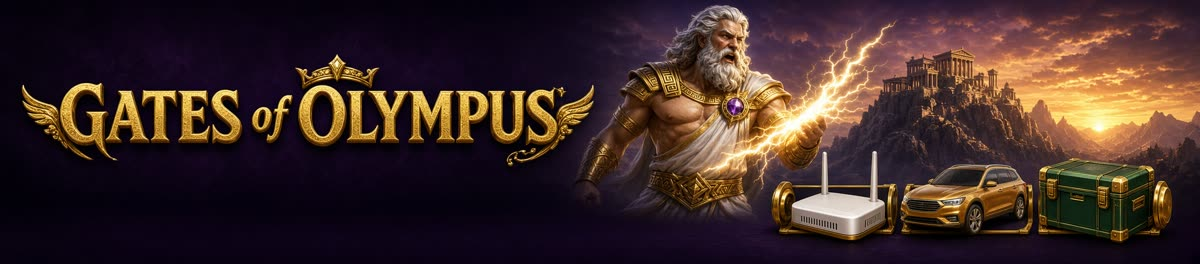
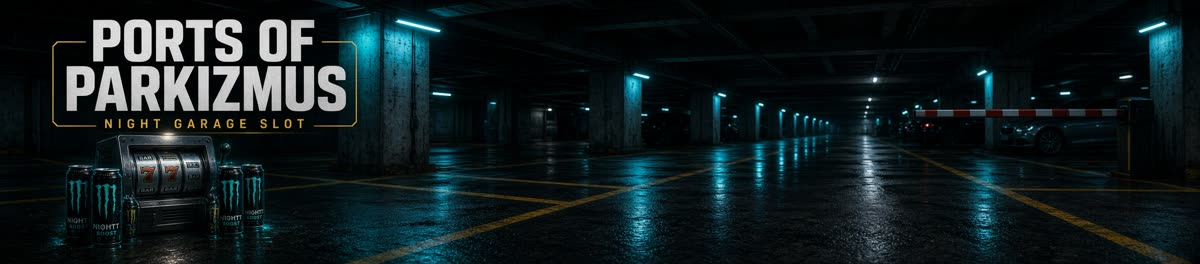
Rename to Ports of Parkizmus and swap orbs for energy cans
Multiplier cells use a photoreal slim energy-drink can instead of
winged orbs. The reel ticker sits in-flow under the compact logo so
it is no longer clipped on desktop.

diff --git a/src/styles.css b/src/styles.css
@@ -180,7 +180,8 @@
 }
 
 .logo-plate.compact .logo-main {
-  font-size: clamp(1rem, 2vw, 1.45rem);
+  font-size: clamp(1.05rem, 2.6vw, 1.7rem);
+  letter-spacing: 0.05em;
 }
 
 .logo-plate.compact .logo-kicker {
@@ -188,8 +189,7 @@
 }
 
 .logo-plate.compact .logo-sub {
-  font-size: 0.52rem;
-  margin-top: 2px;
+  display: none;
 }
 
 .stage.is-boot .table {
@@ -248,7 +248,7 @@
   display: flex;
   flex-direction: column;
   gap: 10px;
-  padding-top: 36px;
+  padding-top: 8px;
   z-index: 2;
 }
 
@@ -392,7 +392,7 @@
   z-index: 3;
   align-self: stretch;
   width: 100%;
-  margin-top: 22px;
+  margin-top: 4px;
   min-height: 0;
   display: flex;
   flex-direction: column;
@@ -410,20 +410,34 @@
 
 .board-stage-inner {
   position: relative;
-  width: min(100%, calc((100dvh - 13.25rem) * 6 / 5));
+  width: min(100%, calc((100dvh - 13.85rem) * 6 / 5));
 }
 
 .fly-orb {
   position: absolute;
   z-index: 8;
   transform: translate(-50%, -50%);
+  width: 3.5rem;
+  height: 3.5rem;
+  display: grid;
+  place-items: center;
   font-family: var(--font-display);
   font-weight: 900;
-  font-size: clamp(0.9rem, 2.4vw, 1.35rem);
+  font-size: clamp(0.78rem, 2.1vw, 1.15rem);
   color: #fff8d0;
   text-shadow: 0 0 12px #ffe14a, 0 2px 0 #3a2208;
   pointer-events: none;
   animation: fly-to-meter 0.72s cubic-bezier(0.18, 0.8, 0.22, 1) forwards;
+}
+
+.fly-orb img {
+  position: absolute;
+  inset: 0;
+  width: 100%;
+  height: 100%;
+  object-fit: contain;
+  pointer-events: none;
+  filter: drop-shadow(0 4px 6px rgb(0 0 0 / 0.55));
 }
 
 @keyframes fly-to-meter {
@@ -469,19 +483,21 @@
 
 .tumble-win,
 .top-ticker {
-  position: absolute;
-  top: -40px;
-  left: 50%;
-  transform: translateX(-50%);
+  position: relative;
   z-index: 4;
-  min-width: 240px;
+  flex-shrink: 0;
+  width: min(100%, 440px);
+  margin: 0 auto 6px;
   text-align: center;
-  padding: 6px 22px 8px;
+  padding: 6px 16px 7px;
+  min-height: 2.2rem;
+  display: grid;
+  place-items: center;
   background: linear-gradient(180deg, #1c2830, #0c1014);
   border: 2px solid #f0c419;
   border-radius: 10px;
   font-size: 0.68rem;
-  letter-spacing: 0.16em;
+  letter-spacing: 0.12em;
   font-weight: 800;
   color: #f0c419;
   pointer-events: none;
@@ -510,7 +526,7 @@
   position: relative;
   padding: 12px 11px 14px;
   width: 100%;
-  max-height: calc(100dvh - 12.5rem);
+  max-height: calc(100dvh - 13.1rem);
   background:
     linear-gradient(180deg, #3a424a 0%, #1c2228 40%, #0e1216 72%, #2a3138 100%);
   box-shadow:
@@ -651,7 +667,7 @@
 }
 
 .cell.is-mult .cell-img {
-  width: 92%;
+  width: 78%;
   height: 92%;
 }
 
@@ -847,6 +863,10 @@
 
 .in-fs .fs-hero {
   order: -1;
+}
+
+.cell.is-dormant .cell-img {
+  filter: brightness(0.86) saturate(0.88) drop-shadow(0 8px 10px rgb(0 0 0 / 0.55));
 }
 
 .cell.is-dormant .mult-tag {
@@ -1084,7 +1104,7 @@
 .mult-tag {
   position: absolute;
   left: 50%;
-  top: 50%;
+  top: 46%;
   z-index: 2;
   transform: translate(-50%, -50%);
   font-family: var(--font-display);
@@ -1506,7 +1526,8 @@
 }
 
 .boot-card .logo-main {
-  font-size: clamp(2.4rem, 8vw, 4rem);
+  font-size: clamp(2.05rem, 7vw, 3.35rem);
+  letter-spacing: 0.05em;
 }
 
 .boot-card .logo-kicker {
@@ -1736,7 +1757,7 @@
     height: 36px;
   }
   .side-left {
-    padding-top: 24px;
+    padding-top: 8px;
   }
 }
 
@@ -1839,11 +1860,13 @@
     justify-content: center;
   }
   .top-ticker {
-    top: -28px;
     font-size: 0.58rem;
     padding: 4px 12px 5px;
     min-width: 0;
-    max-width: 92%;
+    max-width: 96%;
+    min-height: 1.85rem;
+    letter-spacing: 0.08em;
+    margin-bottom: 4px;
   }
   .board-stage {
     flex: 0 1 auto;

diff --git a/src/components/slot/Paytable.tsx b/src/components/slot/Paytable.tsx
@@ -51,6 +51,16 @@ export function Paytable({ open, onClose, bet }: Props) {
             </div>
           ))}
           <div className="pay-row">
+            <img src="/symbols/can.png" alt="" className="pay-ico" />
+            <div>
+              <div className="pay-name">Energy plechovka · násobič</div>
+              <div className="pay-vals">
+                <span>2×–500×</span>
+              </div>
+              <div className="pay-quip">Rampa ju hodí. Bez výhry prepadne.</div>
+            </div>
+          </div>
+          <div className="pay-row">
             <img src={SCATTER.src} alt="" className="pay-ico" />
             <div>
               <div className="pay-name">{SCATTER.name} · scatter</div>
@@ -65,9 +75,9 @@ export function Paytable({ open, onClose, bet }: Props) {
         </div>
         <ul className="rules">
           <li>8 a viac rovnakých symbolov kdekoľvek. Žiadne línie. 7/8 je near-miss, nie výhra.</li>
-          <li>Výherné symboly zmiznú, nové spadnú zhora (tumble). Orby a scatter tumble prežijú.</li>
-          <li>Násobiče nepadajú z valca ako RJ45. Rampa ich pustí. Aktivujú sa až na konci reťaze, a len ak bola výhra.</li>
-          <li>Base: súčet orbov × celá tumble sekvencia. Vo FS orby tečú do globálneho metra; bez výhry gule prepadnú.</li>
+          <li>Výherné symboly zmiznú, nové spadnú zhora (tumble). Plechovky a scatter tumble prežijú.</li>
+          <li>Násobiče nepadajú z valca ako RJ45. Rampa ich pustí ako energy plechovky. Aktivujú sa až na konci reťaze, a len ak bola výhra.</li>
+          <li>Base: súčet plechoviek × celá tumble sekvencia. Vo FS tečú do globálneho metra; bez výhry prepadnú.</li>
           <li>4 scatteri = 15 voľných točení. V bonuse 3+ scatteri = +5. Pay scatteru ostáva 4 / 5 / 6.</li>
           <li>Ante 1.25× stávka dvíha P(bonus) približne na dvojnásobok cez binom, nie surový ×2 na bunke. Vo FS sa ante vypína.</li>
           <li>Kúpa FS = 100× základná stávka. Ante sa na kúpu nevzťahuje. Max 5000× je cap celej feature, nie jedného spinu — potom FEATURE TERMINATED.</li>

diff --git a/src/components/slot/SlotGame.tsx b/src/components/slot/SlotGame.tsx
@@ -42,8 +42,8 @@ export function SlotGame() {
           <img src="/art/ramp.png" alt="" className="boot-ramp" />
           <div className="boot-card">
             <div className="logo-plate">
-              <span className="logo-kicker">GATES of</span>
-              <span className="logo-main">OLYMPUS</span>
+              <span className="logo-kicker">PORTS of</span>
+              <span className="logo-main">PARKIZMUS</span>
               <span className="logo-sub">ZÓNA · LÍSTOK · RAMPA · POKUTA</span>
             </div>
             <p className="boot-max">WIN UP TO 5000× BET</p>
@@ -60,8 +60,8 @@ export function SlotGame() {
 
       <div className="table">
         <div className="logo-plate compact">
-          <span className="logo-kicker">GATES of</span>
-          <span className="logo-main">OLYMPUS</span>
+          <span className="logo-kicker">PORTS of</span>
+          <span className="logo-main">PARKIZMUS</span>
           <span className="logo-sub">ZÓNA · LÍSTOK · RAMPA · POKUTA</span>
         </div>
 
@@ -159,6 +159,7 @@ export function SlotGame() {
                 className="fly-orb"
                 style={{ left: `${((f.c + 0.5) / 6) * 100}%`, top: `${((f.r + 0.5) / 5) * 100}%` }}
               >
+                <img src="/symbols/can.png" alt="" />
                 {f.mult}X
               </span>
             ))}

diff --git a/src/routes/__root.tsx b/src/routes/__root.tsx
@@ -3,7 +3,7 @@ import { AuthProvider } from "@/lib/auth/provider";
 import { PreviewHostBridge } from "@/components/preview-host-bridge";
 import appCss from "../styles.css?url";
 
-const APP_NAME = "Gates of Olympus 4K";
+const APP_NAME = "Ports of Parkizmus";
 
 export const Route = createRootRoute({
   head: () => ({
@@ -13,7 +13,7 @@ export const Route = createRootRoute({
       { title: APP_NAME },
       {
         name: "description",
-        content: "Gates of Olympus 4K v nočnej garáži. Rampa, lístok, pokuta. Demo automat.",
+        content: "Ports of Parkizmus — nočná garáž, rampa, lístok, pokuta. Demo automat.",
       },
       { name: "theme-color", content: "#0b0d10" },
     ],
@@ -32,7 +32,7 @@ export const Route = createRootRoute({
       { rel: "preload", as: "image", href: "/symbols/pdf.png" },
       { rel: "preload", as: "image", href: "/symbols/dacia.png" },
       { rel: "preload", as: "image", href: "/symbols/tv4ka.png" },
-      { rel: "preload", as: "image", href: "/art/orb.png" },
+      { rel: "preload", as: "image", href: "/symbols/can.png" },
       { rel: "preload", as: "image", href: "/art/ramp.png" },
       { rel: "preload", as: "image", href: "/art/parking-bg.jpg" },
     ],

diff --git a/src/lib/slot/symbols.ts b/src/lib/slot/symbols.ts
@@ -123,7 +123,7 @@ export const SCATTER = {
 export const ALL_ART: readonly string[] = [
   ...PAY_SYMBOLS.map((s) => s.src),
   SCATTER.src,
-  "/art/orb.png",
+  "/symbols/can.png",
   "/art/ramp.png",
   "/art/parking-bg.jpg",
 ];
@@ -206,7 +206,7 @@ export function scatterPay(count: number): number {
 
 export function symbolSrc(cell: Cell): string {
   if (cell.kind === "scatter") return SCATTER.src;
-  if (cell.kind === "mult") return "/art/orb.png";
+  if (cell.kind === "mult") return "/symbols/can.png";
   const s = PAY_SYMBOLS.find((p) => p.id === cell.payId);
   return s?.src ?? PAY_SYMBOLS[0].src;
 }

diff --git a/src/hooks/use-slot-game.ts b/src/hooks/use-slot-game.ts
@@ -405,7 +405,7 @@ export function useSlotGame() {
       }
 
       if ((isFree || inFsRef.current) && sequenceX <= 0 && hasOrb(board)) {
-        setTopLine("BEZ VÝHRY GULE PREPADNÚ");
+        setTopLine("BEZ VÝHRY PLECHOVKY PREPADNÚ");
         const gone = expireOrbs(board, rng);
         setExpiredUids(gone.expired);
         await wait(dur(560), abort.current);
